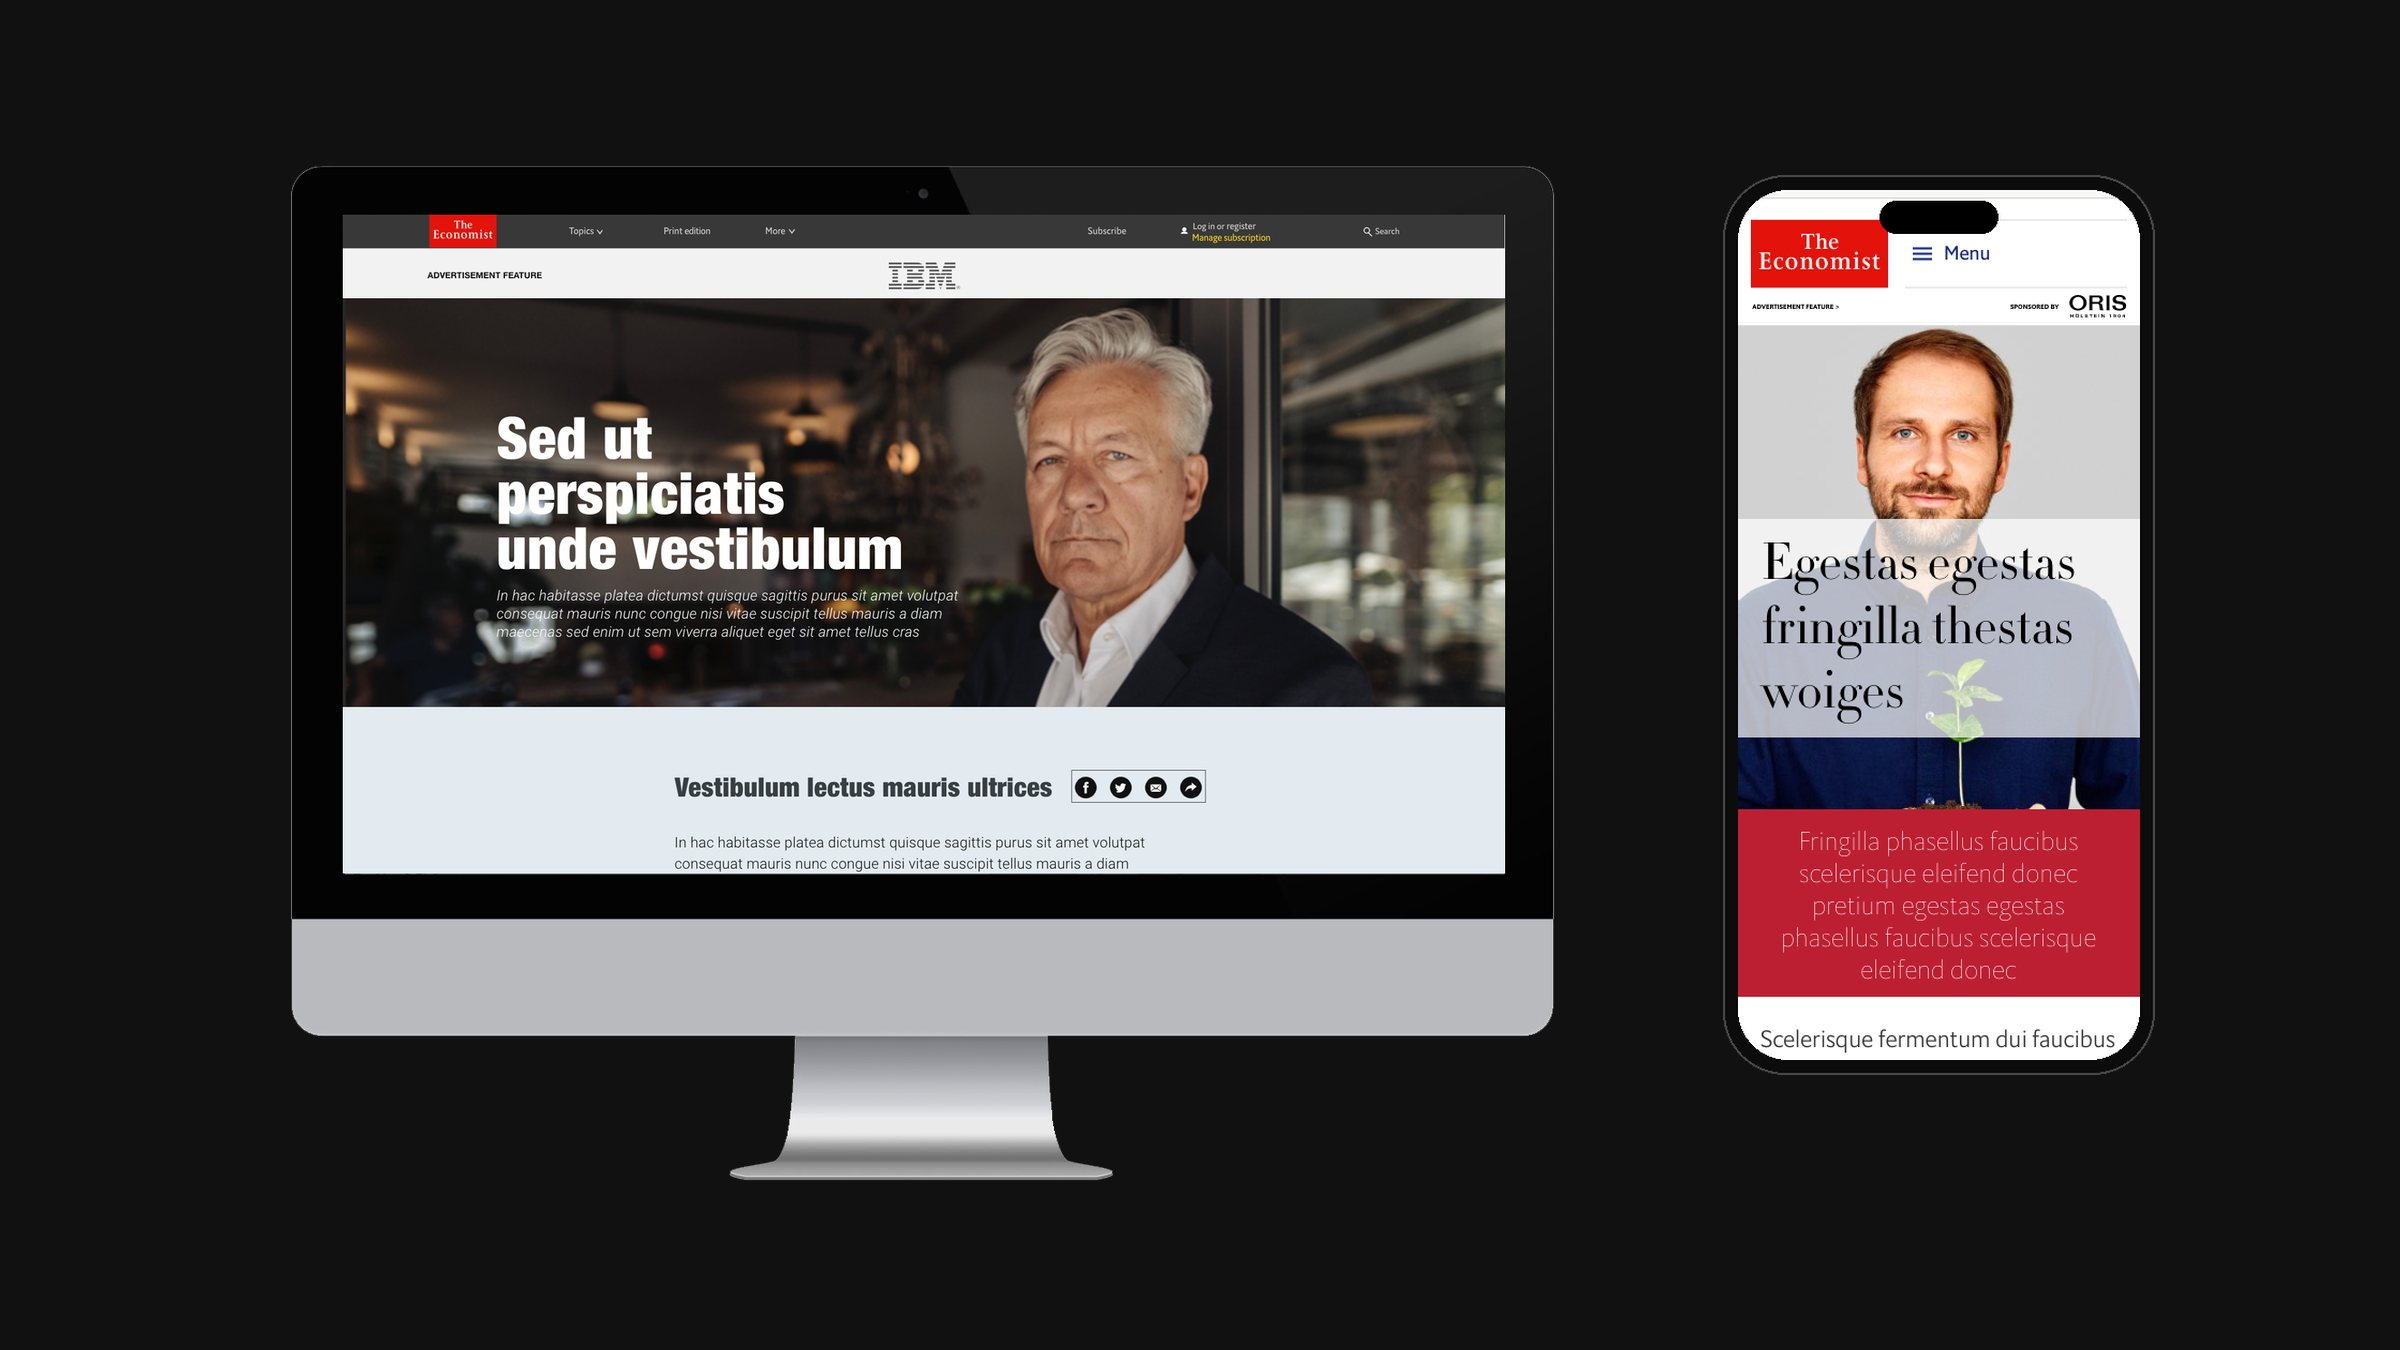
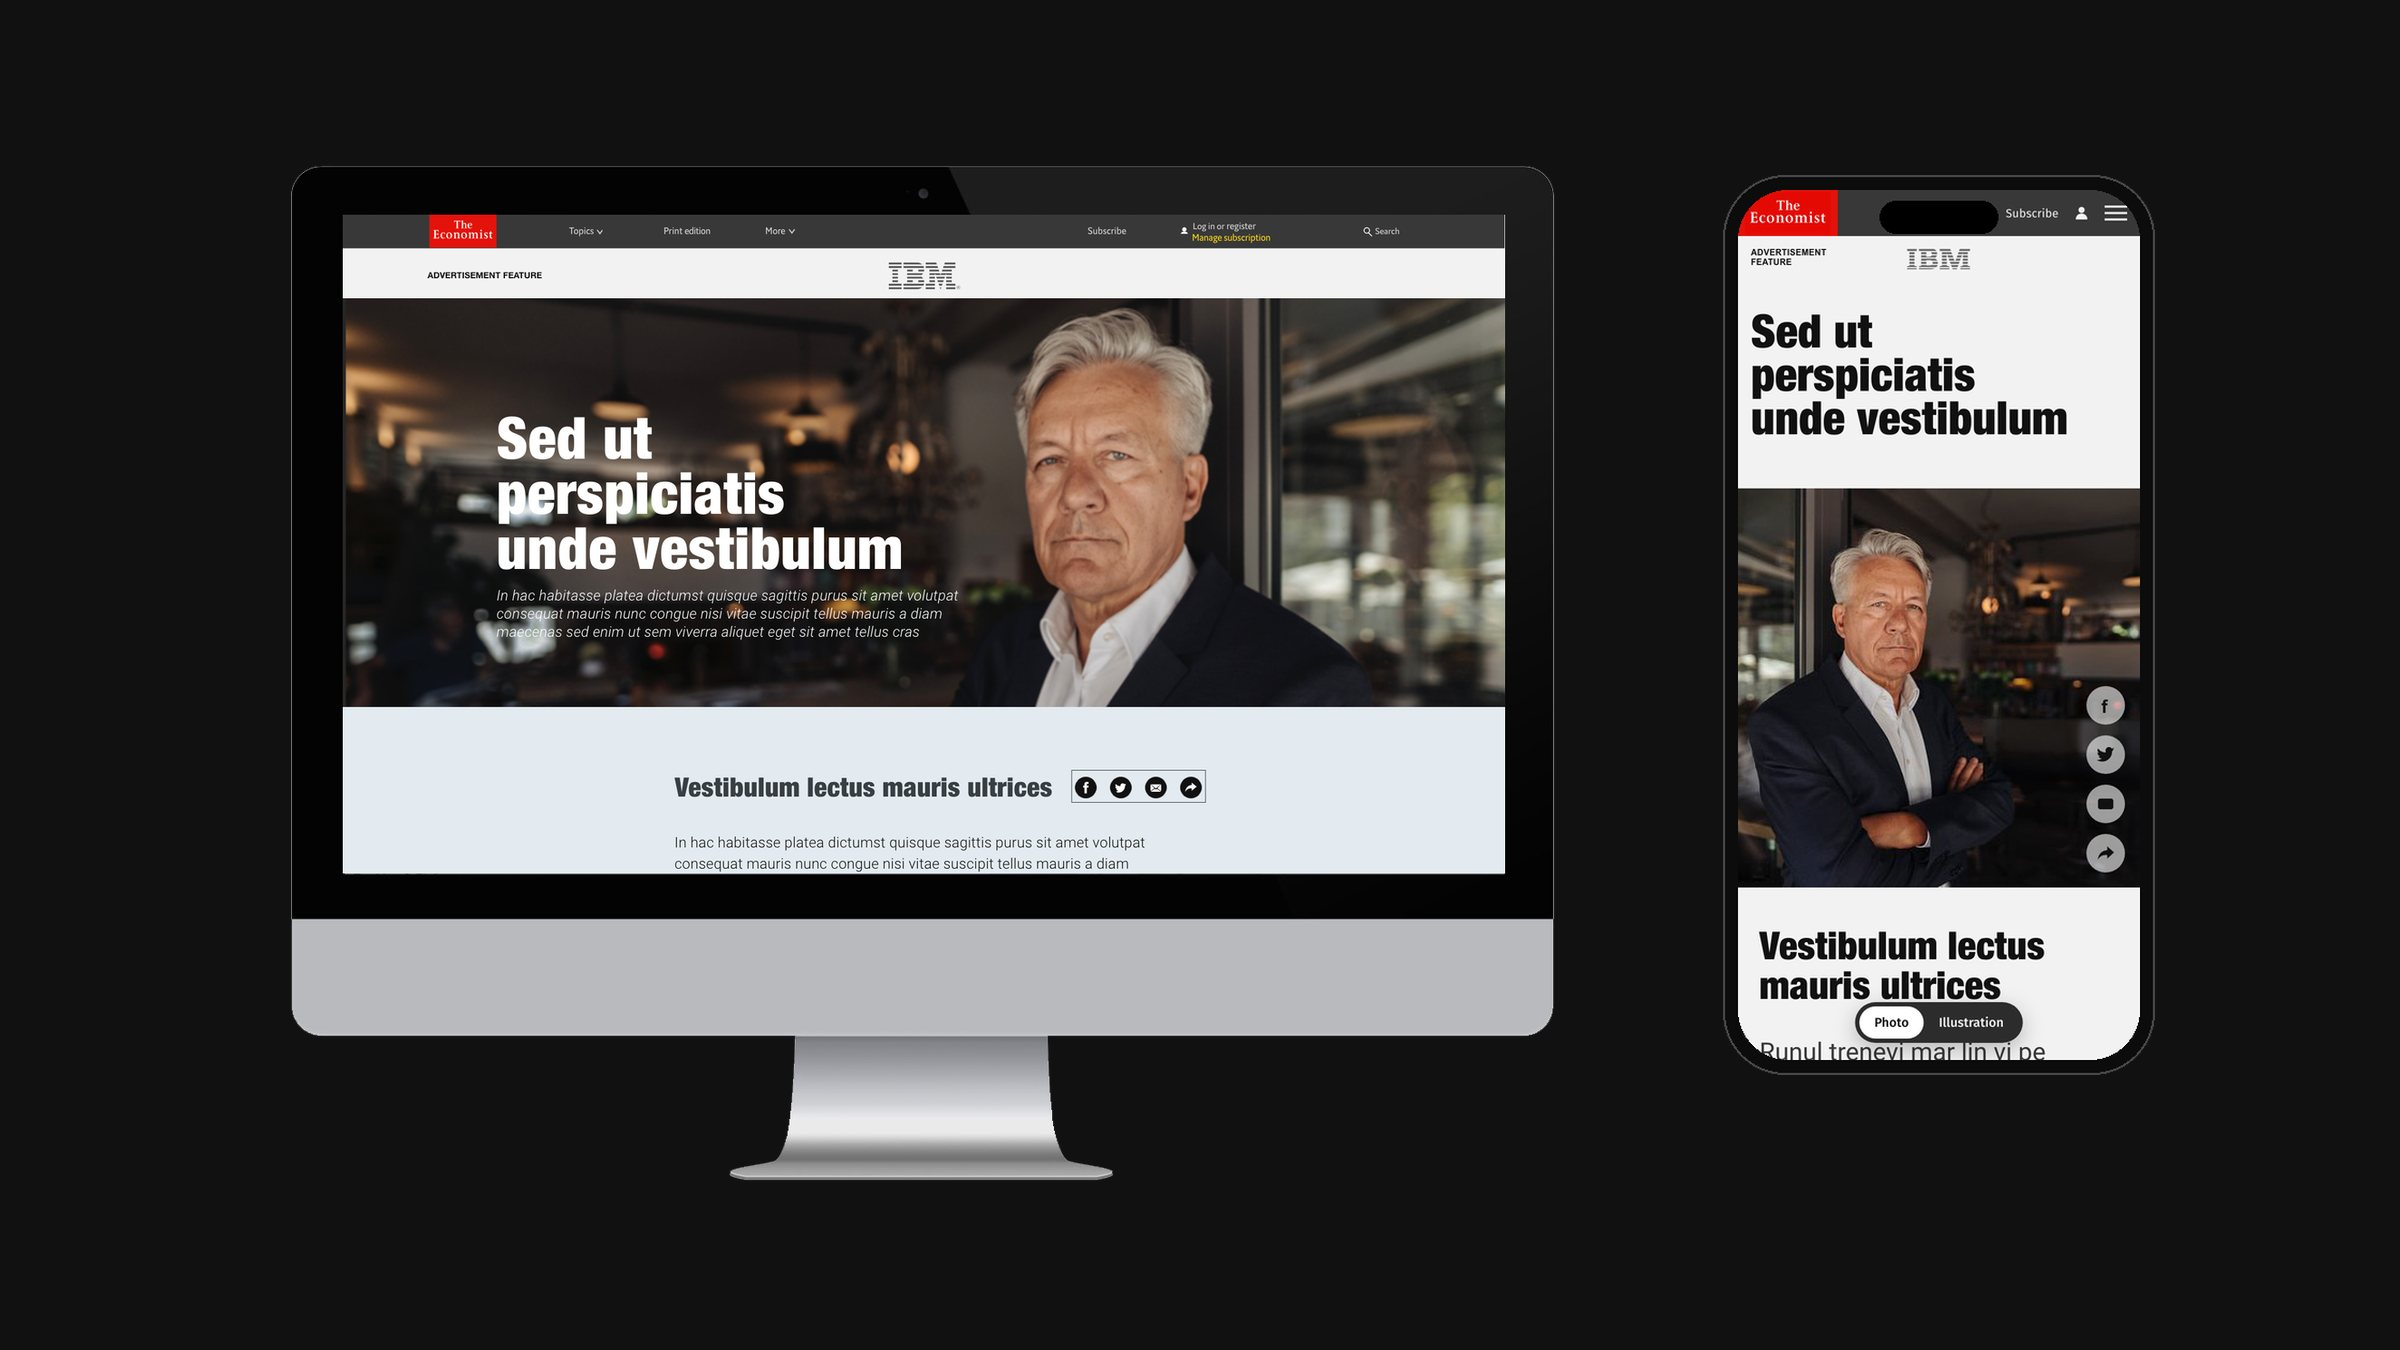
IBM slide: show the IBM page's own mobile version

Changed region(s): [[0.7188, 0.1244, 0.9062, 0.8089]]

diff --git a/1on1/sw.js b/1on1/sw.js
@@ -1,7 +1,7 @@
 // Saves the whole meeting kit on first visit so it opens with no internet.
 // Bump VERSION whenever a file changes.
 importScripts('files.js');
-var VERSION = 'v14';
+var VERSION = 'v15';
 var CACHE = 'bullish-1on1-' + VERSION;
 
 function tell(msg) {
